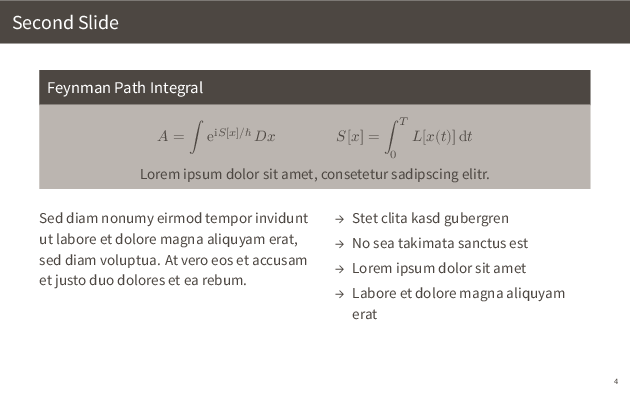
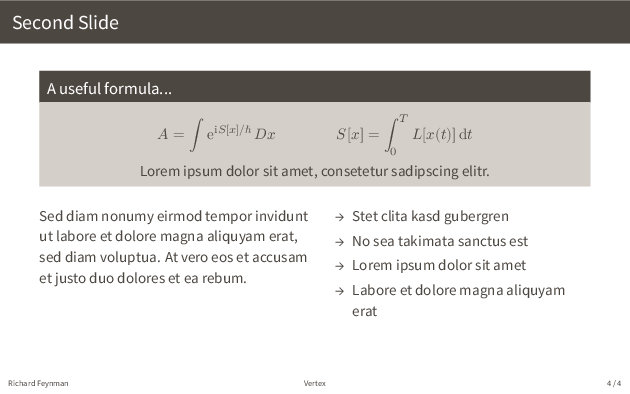
Remove my name from the demo

diff --git a/main.tex b/main.tex
@@ -13,7 +13,7 @@
 \title{Vertex}
 \subtitle{A clean, basic beamer theme}
 \date{\today}
-\author{Igor Babuschkin}
+\author{Richard Feynman}
 
 \begin{document}
 
@@ -33,7 +33,7 @@
 
 \section{Second section}
 \begin{frame}{Second Slide}
-  \begin{block}{Feynman Path Integral}
+  \begin{block}{A useful formula...}
     \begin{equation*}
       A = \int^{}\mathrm{e}^{\mathrm{i} S[x] / \hbar}\,Dx \hspace{4em} S[x] = \int^{T}_0 L[x(t)]\,\mathrm{d}t
     \end{equation*}
